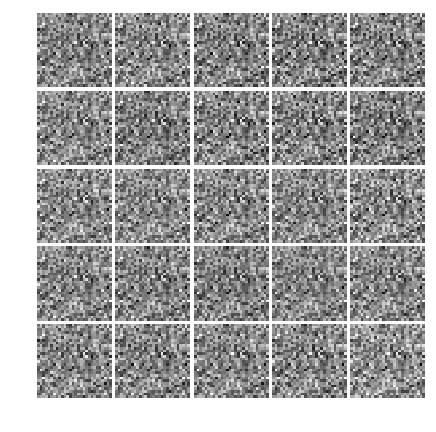
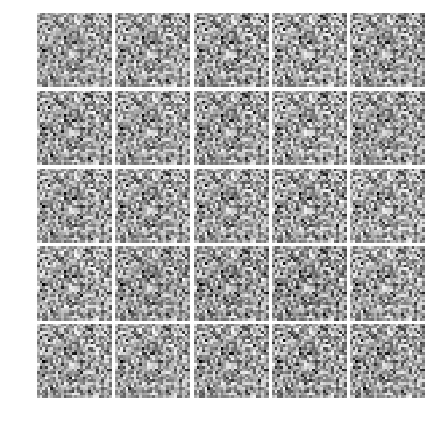
why

diff --git a/test.py b/test.py
@@ -1,0 +1,121 @@
+import tensorflow as tf
+from tensorflow.examples.tutorials.mnist import input_data
+import numpy as np
+import matplotlib.pyplot as plt
+import matplotlib.gridspec as gridspec
+import os
+
+
+def xavier_init(size):
+    in_dim = size[0]
+    xavier_stddev = 1. / tf.sqrt(in_dim / 2.)
+    return tf.random_normal(shape=size, stddev=xavier_stddev)
+
+
+X = tf.placeholder(tf.float32, shape=[None, 784])
+
+D_W1 = tf.Variable(xavier_init([784, 128]))
+D_b1 = tf.Variable(tf.zeros(shape=[128]))
+
+D_W2 = tf.Variable(xavier_init([128, 1]))
+D_b2 = tf.Variable(tf.zeros(shape=[1]))
+
+theta_D = [D_W1, D_W2, D_b1, D_b2]
+
+
+Z = tf.placeholder(tf.float32, shape=[None, 100])
+
+G_W1 = tf.Variable(xavier_init([100, 128]))
+G_b1 = tf.Variable(tf.zeros(shape=[128]))
+
+G_W2 = tf.Variable(xavier_init([128, 784]))
+G_b2 = tf.Variable(tf.zeros(shape=[784]))
+
+theta_G = [G_W1, G_W2, G_b1, G_b2]
+
+
+def sample_Z(m, n):
+    return np.random.uniform(-1., 1., size=[m, n])
+
+
+def generator(z):
+    G_h1 = tf.nn.relu(tf.matmul(z, G_W1) + G_b1)
+    G_log_prob = tf.matmul(G_h1, G_W2) + G_b2
+    G_prob = tf.nn.sigmoid(G_log_prob)
+
+    return G_prob
+
+
+def discriminator(x):
+    D_h1 = tf.nn.relu(tf.matmul(x, D_W1) + D_b1)
+    D_logit = tf.matmul(D_h1, D_W2) + D_b2
+    D_prob = tf.nn.sigmoid(D_logit)
+
+    return D_prob, D_logit
+
+
+def plot(samples):
+    fig = plt.figure(figsize=(4, 4))
+    gs = gridspec.GridSpec(4, 4)
+    gs.update(wspace=0.05, hspace=0.05)
+
+    for i, sample in enumerate(samples):
+        ax = plt.subplot(gs[i])
+        plt.axis('off')
+        ax.set_xticklabels([])
+        ax.set_yticklabels([])
+        ax.set_aspect('equal')
+        plt.imshow(sample.reshape(28, 28), cmap='Greys_r')
+
+    return fig
+
+
+G_sample = generator(Z)
+D_real, D_logit_real = discriminator(X)
+D_fake, D_logit_fake = discriminator(G_sample)
+
+# D_loss = -tf.reduce_mean(tf.log(D_real) + tf.log(1. - D_fake))
+# G_loss = -tf.reduce_mean(tf.log(D_fake))
+
+# Alternative losses:
+# -------------------
+D_loss_real = tf.reduce_mean(tf.nn.sigmoid_cross_entropy_with_logits(logits=D_logit_real, labels=tf.ones_like(D_logit_real)))
+D_loss_fake = tf.reduce_mean(tf.nn.sigmoid_cross_entropy_with_logits(logits=D_logit_fake, labels=tf.zeros_like(D_logit_fake)))
+D_loss = D_loss_real + D_loss_fake
+G_loss = tf.reduce_mean(tf.nn.sigmoid_cross_entropy_with_logits(logits=D_logit_fake, labels=tf.ones_like(D_logit_fake)))
+
+D_solver = tf.train.AdamOptimizer().minimize(D_loss, var_list=theta_D)
+G_solver = tf.train.AdamOptimizer().minimize(G_loss, var_list=theta_G)
+
+mb_size = 128
+Z_dim = 100
+
+mnist = input_data.read_data_sets('../../MNIST_data', one_hot=True)
+
+sess = tf.Session()
+sess.run(tf.global_variables_initializer())
+
+if not os.path.exists('out/'):
+    os.makedirs('out/')
+
+i = 0
+
+for it in range(1000000):
+    if it % 1000 == 0:
+        samples = sess.run(G_sample, feed_dict={Z: sample_Z(16, Z_dim)})
+
+        fig = plot(samples)
+        plt.savefig('out/{}.png'.format(str(i).zfill(3)), bbox_inches='tight')
+        i += 1
+        plt.close(fig)
+
+    X_mb, _ = mnist.train.next_batch(mb_size)
+
+    _, D_loss_curr = sess.run([D_solver, D_loss], feed_dict={X: X_mb, Z: sample_Z(mb_size, Z_dim)})
+    _, G_loss_curr = sess.run([G_solver, G_loss], feed_dict={Z: sample_Z(mb_size, Z_dim)})
+
+    if it % 1000 == 0:
+        print('Iter: {}'.format(it))
+        print('D loss: {:.4}'. format(D_loss_curr))
+        print('G_loss: {:.4}'.format(G_loss_curr))
+        print()

diff --git a/gan.py b/gan.py
@@ -22,14 +22,18 @@ z = tf.placeholder(tf.float32, [None, 100], name="inputs_z")
 
 def generator(z):
     with tf.variable_scope("generator"):
-        gen_fc1 = tf.layers.dense(z, units=128, activation=tf.nn.sigmoid)
-        gen_output = tf.layers.dense(gen_fc1, units=784, activation=tf.nn.sigmoid)
+        gen_fc1 = tf.layers.dense(z, units=128, activation=tf.nn.sigmoid,
+            kernel_initializer=tf.contrib.layers.xavier_initializer())
+        gen_output = tf.layers.dense(gen_fc1, units=784, activation=tf.nn.sigmoid,
+            kernel_initializer=tf.contrib.layers.xavier_initializer())
     return gen_output
 
 def discriminator(x):
     with tf.variable_scope("discriminator", reuse=tf.AUTO_REUSE):
-        disc_fc1 = tf.layers.dense(x, units=128, activation=tf.nn.sigmoid)
-        disc_logit = tf.layers.dense(disc_fc1, units=1)
+        disc_fc1 = tf.layers.dense(x, units=128, activation=tf.nn.sigmoid,
+            kernel_initializer=tf.contrib.layers.xavier_initializer())
+        disc_logit = tf.layers.dense(disc_fc1, units=1,
+            kernel_initializer=tf.contrib.layers.xavier_initializer())
         disc_prob = tf.nn.sigmoid(disc_logit)
     return disc_logit, disc_prob
 
@@ -44,31 +48,30 @@ through both generator/discriminator networks to train them.
 disc_real_logits, disc_real_prob = discriminator(x)
 disc_fake_logits, disc_fake_prob = discriminator(noise_samples)
 
+"""
 # does this loss not work?
 eps = 1e-6
 disc_loss = -tf.reduce_mean(tf.log(eps+disc_real_prob) + tf.log(eps+1-disc_fake_prob))
 gen_loss = tf.reduce_mean(tf.log(eps+1-disc_fake_prob))
-
+"""
 
 # how about this loss?
-"""
 disc_loss = tf.reduce_mean(tf.nn.sigmoid_cross_entropy_with_logits(
     logits=disc_real_logits, labels=tf.ones_like(disc_real_prob)) + tf.nn.sigmoid_cross_entropy_with_logits(
         logits=disc_fake_logits, labels=tf.zeros_like(disc_fake_prob)))
 gen_loss = tf.reduce_mean(tf.nn.sigmoid_cross_entropy_with_logits(
     logits=disc_fake_logits, labels=tf.ones_like(disc_fake_prob)))
-"""
 
 disc_vars = tf.get_collection(tf.GraphKeys.TRAINABLE_VARIABLES, scope="discriminator")
 gen_vars = tf.get_collection(tf.GraphKeys.TRAINABLE_VARIABLES, scope="generator")
 
 # gradient train
-disc_optimizer = tf.train.AdamOptimizer(disc_lr).minimize(disc_loss, var_list=disc_vars)
-gen_optimizer = tf.train.AdamOptimizer(gen_lr).minimize(gen_loss, var_list=gen_vars)
+disc_optimizer = tf.train.AdamOptimizer().minimize(disc_loss, var_list=disc_vars)
+gen_optimizer = tf.train.AdamOptimizer().minimize(gen_loss, var_list=gen_vars)
 
 # sampling helper function
 def sample_noise(num_samples):
-    return np.random.uniform(-1.0, 1.0, [num_samples, 100])
+    return np.random.uniform(-1.0, 1.0, size=[num_samples, 100])
 
 # training loop
 sess = tf.Session()

diff --git a/vis.py b/vis.py
@@ -16,8 +16,9 @@ def plot_mnist(samples):
 
     for i, sample in enumerate(samples):
         ax = plt.subplot(grid[i])
+        ax.set_aspect("equal")
         plt.axis("off")
-        plt.imshow(sample.reshape(28,28), cmap="gray")
+        plt.imshow(sample.reshape(28,28), cmap="Greys_r")
     return fig
 
 def take_snapshot(samples, marker=0):
